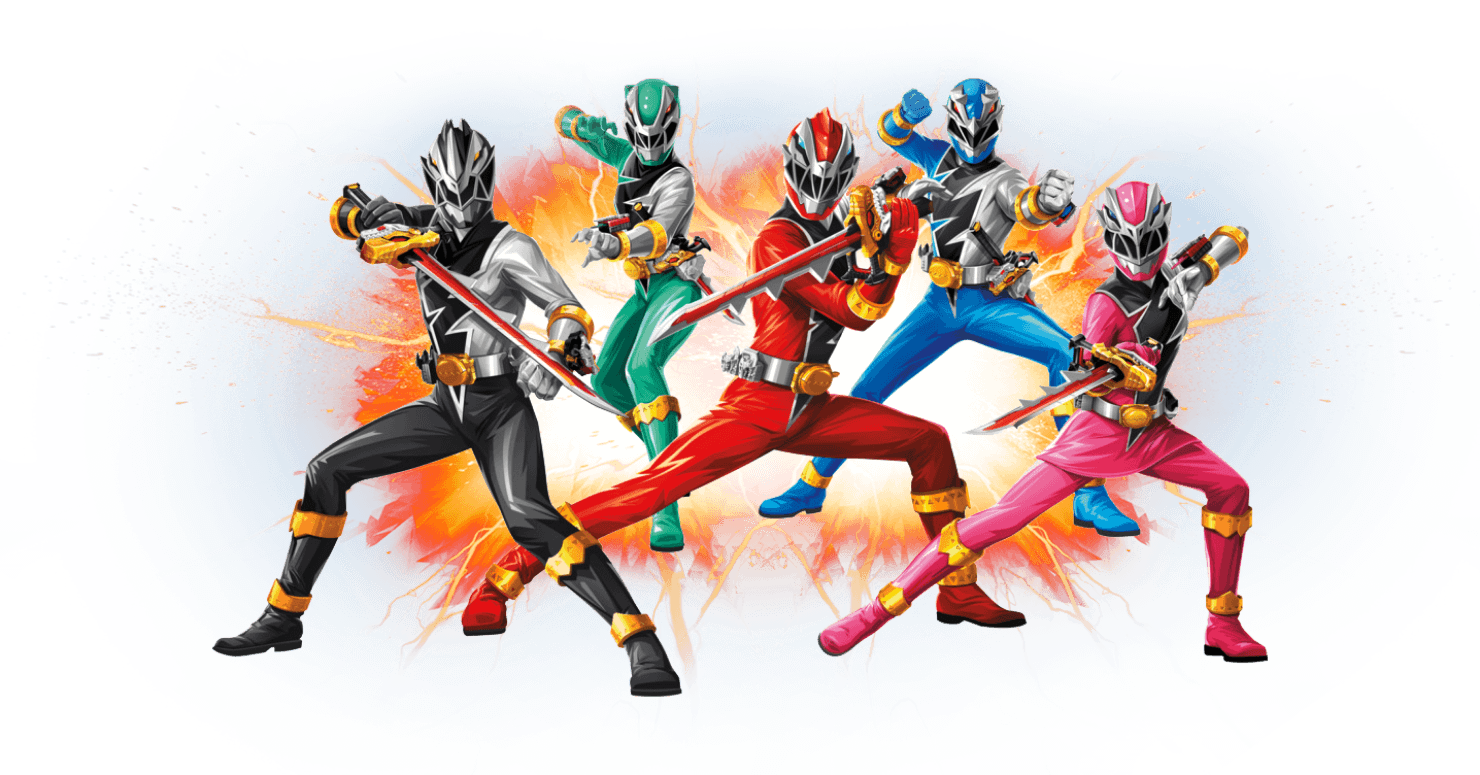
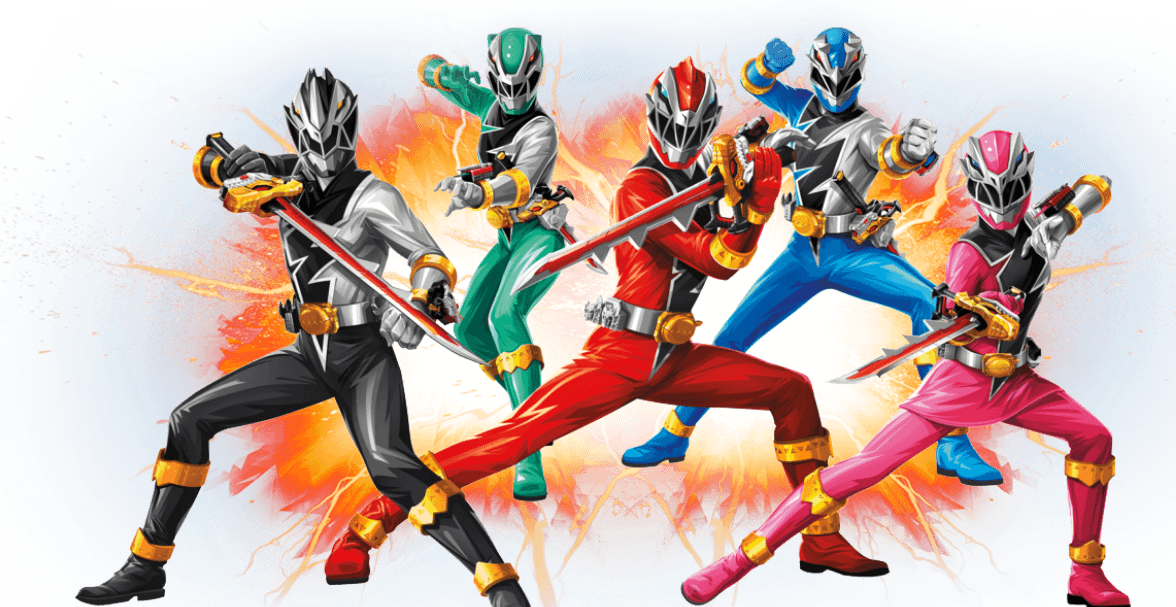
Image-Size-Correction

diff --git a/style.css b/style.css
@@ -23,6 +23,8 @@ body{
 .container{
     width: 85%;
     margin: 0 auto;
+    text-align: center;
+    overflow: hidden;
 }
 /*=========================
     Header
@@ -63,7 +65,7 @@ ul li a img{
     position: relative;
 }
 .intro img{
-    width: 90vw;
+    width: 75%;
     margin: 0 auto;
 }
 .main-name{
@@ -75,7 +77,9 @@ ul li a img{
     bottom: 1vw;
 }
 .main-name img{
-    width: 35vw;
+    width: 95%;
+    position: relative;
+    top: 30px;
 }
 .main-title{
     text-decoration: none;
@@ -212,15 +216,20 @@ footer{
     padding-top: 10px;
     position: relative;
 }
+.footer-left form{
+    display: flex;
+    justify-content: center;
+    flex-direction: column;
+    padding: 3px;
+    width: 97%;
+}
 .footer-left input{
     background: #383838;
     padding: 16px;
     border: none;
     outline: 1px solid gray;
-    width: 80%;
-}
-.footer-left p{
-    margin: 20px 0;
+    width: 90%;
+    position: relative;
 }
 .fa-paper-plane{
     font-weight: 900;
@@ -228,8 +237,10 @@ footer{
     padding: 7px 12px;
     font-size: 27px;
     position: absolute;
-    top: 13px;
-    right: 6.5%;
+    right: 16px;
+}
+.footer-left p{
+    margin: 20px 0;
 }
 .footer-middle img{
     width: 50%;
@@ -294,17 +305,14 @@ footer{
     }
     .intro {
         position: relative;
-        overflow: hidden;
         margin: 20px auto;
         padding: 12px 0;
     }
     .intro>img {
-        width: 90vw;
         margin: 0 auto;
         transform: scale(1.5);
     }
     .main-name img {
-        width: 35vw;
         transform: scale(1.5);
     }
     .forces{
@@ -321,6 +329,6 @@ footer{
         grid-template-columns: repeat(1, 1fr);
     }
     .fa-paper-plane{
-        right: 5%;
+        right: 11px;
     }
 }

diff --git a/index.html b/index.html
@@ -109,8 +109,10 @@
                 <div class="container">
                     <div class="footer-parts">
                         <div class="footer-left">
-                            <input type="text" placeholder="Enter Your Email">
-                            <i class="fas fa-paper-plane"></i>
+                            <form action="">
+                                <input type="text" placeholder="Enter Your Email">
+                                <i class="fas fa-paper-plane"></i>
+                            </form>
                             <p>Join with over 150k+ peoples in Newsletter. By clicking sign up, your define that you have read our privacy policy and want to get regular emails of our latest newsletter posts.</p>
                         </div>
                         <div class="footer-middle">
